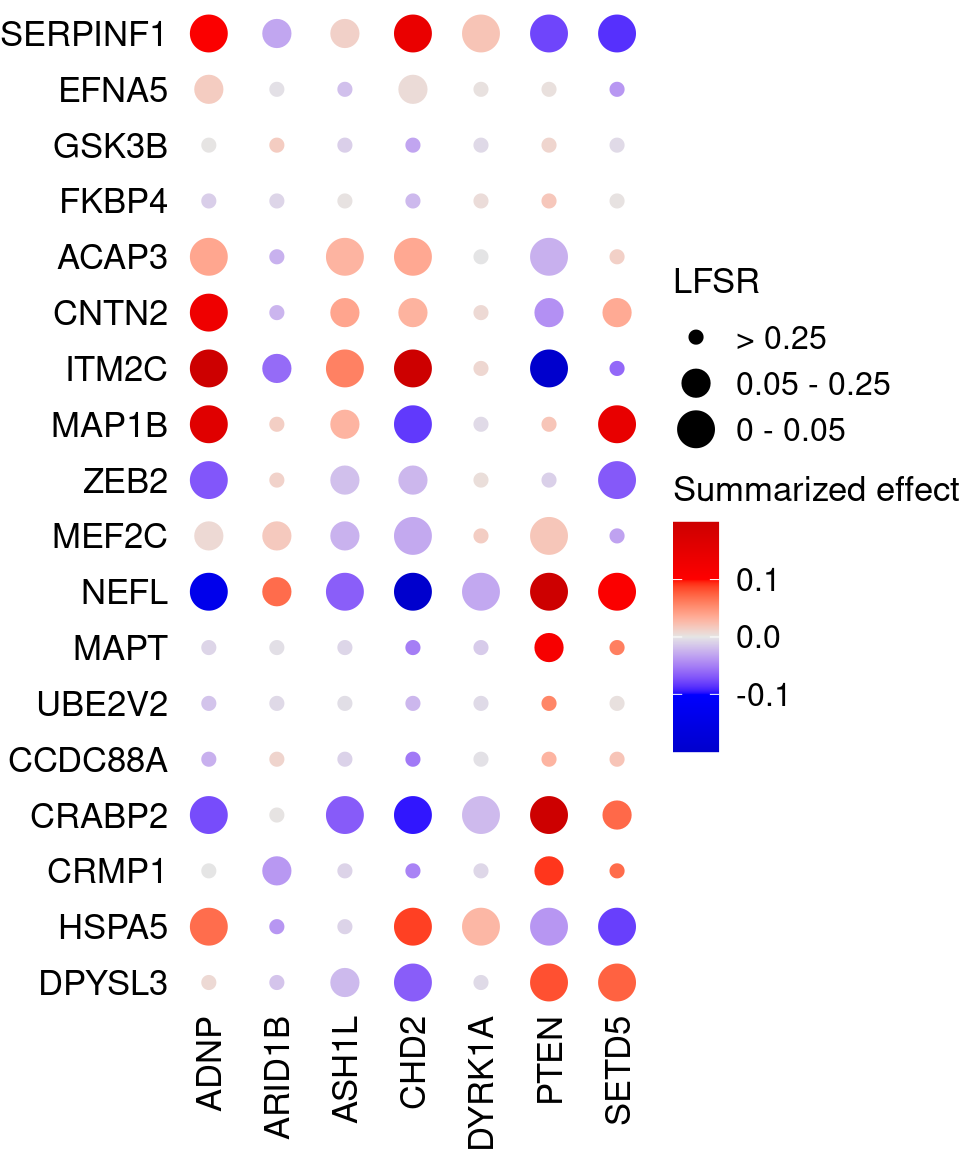
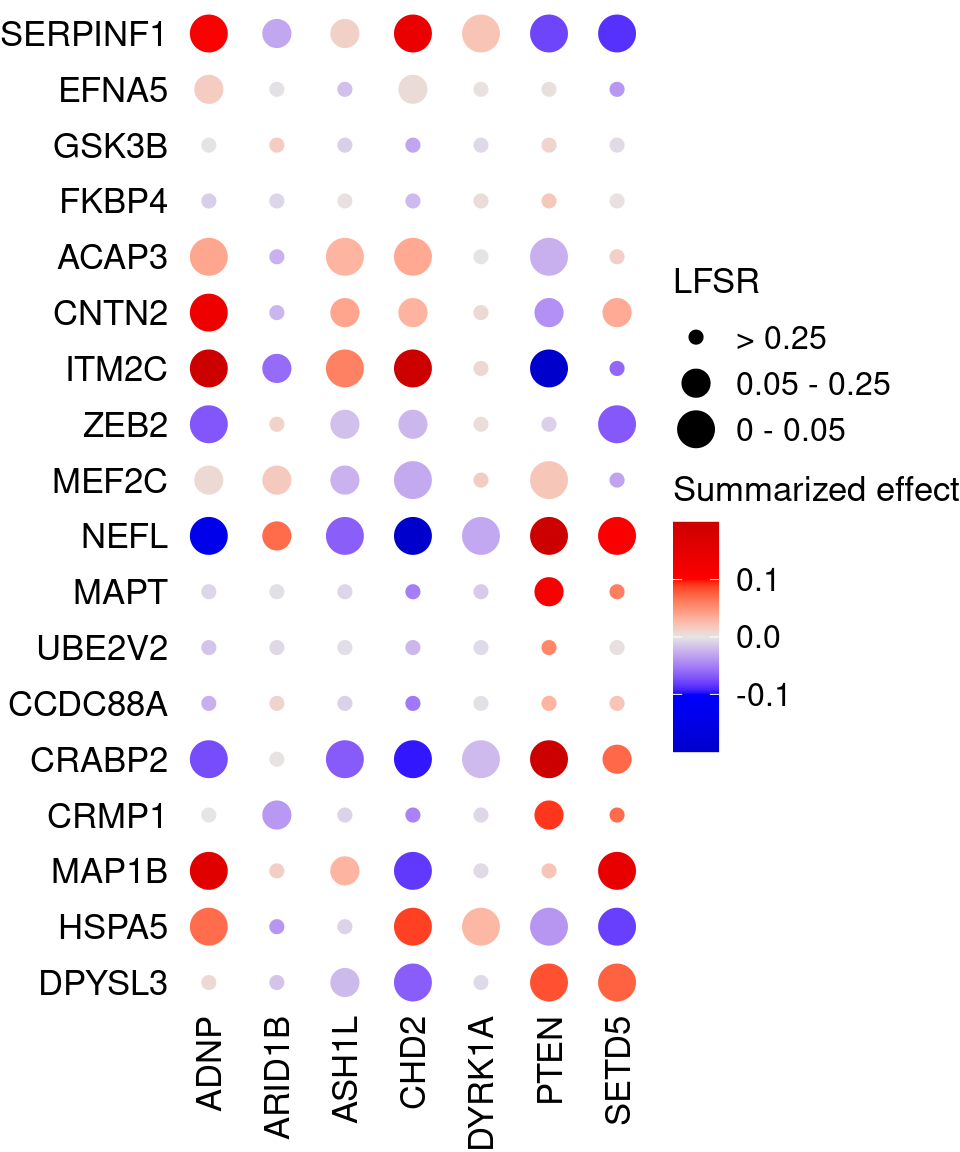
LUHMES

diff --git a/docs/LUHMES_merged_new.gsfa_dev_res_normal_mixture.html b/docs/LUHMES_merged_new.gsfa_dev_res_normal_mixture.html
@@ -11,7 +11,7 @@
 
 <meta name="author" content="Yifan Zhou (zhouyf@uchicago.edu)" />
 
-<meta name="date" content="2021-10-21" />
+<meta name="date" content="2021-10-23" />
 
 <title>Guided Factor Analysis on LUHMES CROP-seq Data</title>
 
@@ -338,7 +338,7 @@ div.tocify {
 <h1 class="title toc-ignore">Guided Factor Analysis on LUHMES CROP-seq Data</h1>
 <h3 class="subtitle">-- Deviance residual transformed + 4 covariates corrected</h3>
 <h4 class="author">Yifan Zhou (<a href="mailto:zhouyf@uchicago.edu">zhouyf@uchicago.edu</a>)</h4>
-<h4 class="date">2021-10-21</h4>
+<h4 class="date">2021-10-23</h4>
 
 </div>
 
@@ -384,16 +384,16 @@ Deviance residual transformation.<br />
 <h1><span class="header-section-number">3</span> Factor Interpretation</h1>
 <div id="factor-by-gene-loading" class="section level2">
 <h2><span class="header-section-number">3.1</span> Factor by gene loading</h2>
-<p>Neuron progenitor (NPC): NES, TP53, CDK4<br />
-Post-mitotic neuron: MAP2, DCX<br />
+<p>Neuron progenitor (NPC): NES, TP53, CDK4, NEUROD1<br />
+Post-mitotic neuron: MAP2, DCX, STMN2<br />
 Glutamatergic neuron (excitatory): SLC17A6<br />
 Cortical neuron: BRN2 (POU3F2)<br />
 Developing striatal neurons: EBF1<br />
 Subtypes of inhibitory neurons: SST<br />
 Subtypes of extitatory neurons: NEFM</p>
 <p><img src="LUHMES_merged_new.gsfa_dev_res_normal_mixture_files/figure-html/unnamed-chunk-11-1.png" width="864" style="display: block; margin: auto;" /></p>
-<p>ITM2C: negative regulation of neuron projection development<br />
-MAP1B: highly expressed during neural development in actively extending axons ZEB2: a transcription factor that regulates neuron development</p>
+<p>SERPINF1 to ITM2C: negative regulators of neuron projection and differentiation<br />
+ZEB2 to DPYSL3: neuron maturation markers</p>
 <p><img src="LUHMES_merged_new.gsfa_dev_res_normal_mixture_files/figure-html/unnamed-chunk-12-1.png" width="864" style="display: block; margin: auto;" /></p>
 </div>
 <div id="selected-factor-go-enrichment" class="section level2">
@@ -413,7 +413,9 @@ MAP1B: highly expressed during neural development in actively extending axons ZE
 <div id="perturbation-effect-on-gene-markers" class="section level2">
 <h2><span class="header-section-number">4.2</span> Perturbation effect on gene markers</h2>
 <p><img src="LUHMES_merged_new.gsfa_dev_res_normal_mixture_files/figure-html/dotplot_gene_effect1-1.png" width="480" style="display: block; margin: auto;" /></p>
-<p><img src="LUHMES_merged_new.gsfa_dev_res_normal_mixture_files/figure-html/dotplot_gene_effect2-1.png" width="480" style="display: block; margin: auto;" /></p>
+<p>SERPINF1 to ITM2C: negative regulators of neuron projection and differentiation</p>
+<p>ZEB2 to DPYSL3: neuron maturation markers<br />
+<img src="LUHMES_merged_new.gsfa_dev_res_normal_mixture_files/figure-html/dotplot_gene_effect2-1.png" width="480" style="display: block; margin: auto;" /></p>
 </div>
 <div id="deg-go-enrichment" class="section level2">
 <h2><span class="header-section-number">4.3</span> DEG GO enrichment</h2>
